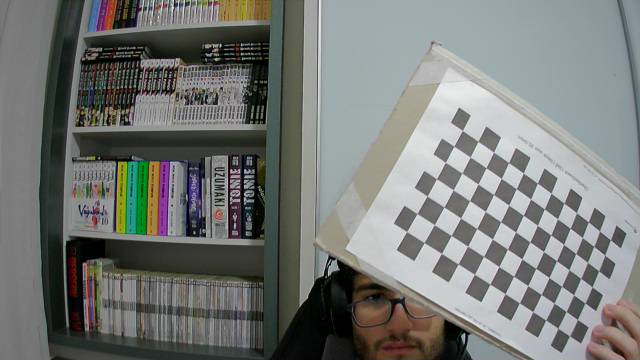
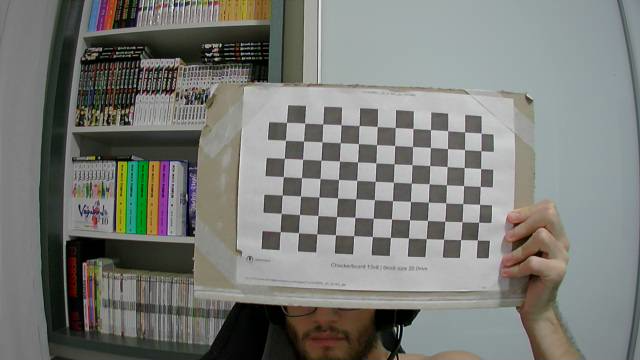
Noite terminada
Funcionando

diff --git a/Interface.py b/Interface.py
@@ -19,6 +19,25 @@ import glob
 import pickle
 from PIL import Image, ImageTk 
 
+
+boolc1 = False
+boolc2 = False
+boolc3 = False
+pular = 0
+vx = 0.0
+vy = 0.0
+infile = open('cameraconfig','rb')
+propriedades = pickle.load(infile)
+#print(propriedades)
+infile.close
+tamanhoTabuleiro = (12,7)
+criteria = (cv2.TERM_CRITERIA_EPS + cv2.TERM_CRITERIA_MAX_ITER, 30, 0.001)
+cam = cv2.VideoCapture(0)
+ret, frameinicial = cam.read()
+boolfoto = False
+boolconfirmo = False
+boolrecuso = False
+
 def boolCamera1():
     global boolc1
     boolc1 = not boolc1
@@ -27,43 +46,40 @@ def boolCamera2():
     global boolc2
     boolc2 = not boolc2
 
-def boolfoto():
+def boolfotoc():
     global boolfoto
     boolfoto = not boolfoto
 
-def boolconfirmo():
+def boolconfirmoc():
     global boolconfirmo
     boolconfirmo = not boolconfirmo
 
-def boolrecuso():
+def boolrecusoc():
     global boolrecuso
     boolrecuso = not boolrecuso
 
-def cali():
-    print("foi")
+def cali(menu2, l1,numero):
     global cam 
     cv2.namedWindow("fotos")
     contador = 0
     global boolfoto
     global boolrecuso
     global boolconfirmo
-    boolfoto = False
-    boolrecuso = False
-    boolconfirmo = False
+
     while True:
+        menu2.update()
         ret, frame = cam.read()
         salvo = frame
         if ret == False:
             print("problema na camera")
             break
         cv2.imshow("fotos", frame)
-        tamanho = (frame.shape[0],frame.shape[1])
-        k = cv2.waitKey(1)
-        if k%256 == 27:
-            # ESC pressed
-            break
         print(boolfoto)
-        menu.update()
+        tamanho = (frame.shape[0],frame.shape[1])
+        #k = cv2.waitKey(1)
+        #if k%256 == 27:
+            # ESC pressed
+            #break
         if boolfoto  == True:
             # SPACE pressed
             NomeImagem = "calibra{}.png".format(contador)
@@ -80,7 +96,7 @@ def cali():
                 imagem = Image.fromarray(imagem)
                 tkimage = ImageTk.PhotoImage(imagem)
                 l1.config(image=tkimage)
-                menu.update()
+                menu2.update()
                 while(True):
                     if boolconfirmo == True:
                         print("{} salvo!".format(NomeImagem))
@@ -92,8 +108,8 @@ def cali():
                         os.remove(NomeImagem)
                         boolrecuso = False
                         break
-                    boolfoto = 0 
-                    menu.update()
+                    boolfoto = False
+                    menu2.update()
         if boolconfirmo == True:
             break
     cv2.destroyWindow('fotos')
@@ -119,52 +135,130 @@ def cali():
     outfile.close
     return propriedades
     
-def creattreco(frame):
+def creattreco():
+    global frameinicial
+    global boolfoto
+    global boolconfirmo
+    global boolrecuso
+    frame = frameinicial
     cor1 = '#404040' # cinza de fundo
     cor2 = '#ff7f2a' #
     cor3 = '#757575'
-    menu = Tk()
+    menu2 = Toplevel(menu)
     geometria = "{0}x{1}".format(frame.shape[1]+150,frame.shape[0]+400)
-    menu.geometry(geometria)
-    menu.option_add("*font", "lucida 10 bold italic")
-    menu.title('Menu')
-    menu.config(bg = cor1)
-    menu.iconbitmap('iconrasie.ico')
+    menu2.geometry(geometria)
+    menu2.option_add("*font", "lucida 10 bold italic")
+    menu2.title('c')
+    menu2.config(bg = cor1)
+    menu2.iconbitmap('iconrasie.ico')
     
     
-    botao1 = Button(menu,text='Foto',bg =cor1,fg = cor2,activebackground = cor1,activeforeground = cor2,command=boolfoto)
+    botao1 = Button(menu2,text='Foto',bg =cor1,fg = cor2,activebackground = cor1,activeforeground = cor2,command=boolfotoc)
     botao1.place(x=375,y=10)
 
-    botao2 = Button(menu,text='Confirmar',bg =cor1,fg = cor2,activebackground = cor1,activeforeground = cor2,command=boolconfirmo)
+    botao2 = Button(menu2,text='Confirmar',bg =cor1,fg = cor2,activebackground = cor1,activeforeground = cor2,command=boolconfirmoc)
     botao2.place(x=375,y=50)
 
-    botao3 = Button(menu,text='Apagar',bg =cor1,fg = cor2,activebackground = cor1,activeforeground = cor2,command=boolrecuso)
+    botao3 = Button(menu2,text='Apagar',bg =cor1,fg = cor2,activebackground = cor1,activeforeground = cor2,command=boolrecusoc)
     botao3.place(x=375,y=90)
 
-    numero = Label(bg = cor1,highlightbackground = cor1,activebackground = cor1, fg = cor2,text = "Numero de imagens: 0")
+    numero = Label(menu2,bg = cor1,highlightbackground = cor1,activebackground = cor1, fg = cor2,text = "Numero de imagens: 0")
     numero.place(x=340,y=frame.shape[1]-100)
-    imagem = Image.fromarray(frame)
-    tkimage = ImageTk.PhotoImage(imagem)
-    l1 = Label(menu, image=tkimage)
+    imagem = Image.fromarray(cv2.cvtColor(frame, cv2.COLOR_BGR2RGB))
+    tkimage = ImageTk.PhotoImage(image=imagem, master=menu2)
+    l1 = Label(menu2, image=tkimage)
     l1.place(x = 70, y = 150)
-    return menu, l1,numero
+    menu2.update()
+    
+    cv2.namedWindow("fotos")
+    contador = 0
+
+    while True:
+        menu2.update()
+        ret, frame = cam.read()
+        salvo = frame
+        if ret == False:
+            print("problema na camera")
+            break
+        cv2.imshow("fotos", frame)
+        #print(boolfoto)
+        tamanho = (frame.shape[0],frame.shape[1])
+        #k = cv2.waitKey(1)
+        #if k%256 == 27:
+            # ESC pressed
+            #break
+        if boolfoto  == True:
+            # SPACE pressed
+            NomeImagem = "calibra{}.png".format(contador)
+            gray = cv2.cvtColor(frame, cv2.COLOR_BGR2GRAY)
+            ret, vertice = cv2.findChessboardCorners(gray, tamanhoTabuleiro, None) # Find the chess board corners
+            if ret==0:
+                print('erro no tabuleiro')
+                boolfoto = False
+            else:
+                verticeNovo = cv2.cornerSubPix(gray, vertice, (11,11), (-1,-1), criteria)
+                desenhos = frame
+                cv2.imwrite(NomeImagem, salvo)
+                cv2.drawChessboardCorners(desenhos, tamanhoTabuleiro, verticeNovo, ret) # Draw corners
+                imagem = cv2.cvtColor(desenhos, cv2.COLOR_BGR2RGB) 
+                imagem = Image.fromarray(imagem)
+                tkimage = ImageTk.PhotoImage(imagem, master= menu2)
+                l1.config(image=tkimage)
+                menu2.update()
+                while(True):
+                    if boolconfirmo == True:
+                        print("{} salvo!".format(NomeImagem))
+                        contador += 1
+                        boolconfirmo = False
+                        numero.config(text="Numero de imagens: {0}".format(contador))
+                        break
+                    if boolrecuso == True:
+                        os.remove(NomeImagem)
+                        boolrecuso = False
+                        break
+                    boolfoto = False
+                    menu2.update()
+        if boolconfirmo == True:
+            break
+    cv2.destroyWindow('fotos')
+    menu2.destroy()
+    objp = np.zeros((tamanhoTabuleiro[0] * tamanhoTabuleiro[1], 3), np.float32)
+    objp[:,:2] = np.mgrid[0:tamanhoTabuleiro[0],0:tamanhoTabuleiro[1]].T.reshape(-1,2)
+    objetoReal = [] #points in real world space
+    objetoImagem = [] #points in image plane.
+    imagens = glob.glob('*.png')
+    for imagem in imagens:
+        img = cv2.imread(imagem)
+        gray = cv2.cvtColor(img, cv2.COLOR_BGR2GRAY)
+
+        ret, vertice = cv2.findChessboardCorners(gray, tamanhoTabuleiro, None) # Find the chess board corners
+
+        if ret == True:
+            objetoReal.append(objp)
+            verticeNovo = cv2.cornerSubPix(gray, vertice, (11,11), (-1,-1), criteria)
+            objetoImagem.append(vertice)
+    ret, cameraMatrix, dist, rvecs, tvecs = cv2.calibrateCamera(objetoReal, objetoImagem, tamanho, None, None)
+    propriedades = [ret, cameraMatrix, dist, rvecs, tvecs]
+    outfile = open('cameraconfig','wb')
+    pickle.dump(propriedades,outfile)
+    outfile.close
+
+    return menu2, l1,numero
 
         
 def boolCamera3():
-    global boolCamera3
-    boolCamera3 = not boolCamera3
-    #global prop
-    #zxc.takePictures()
-    #propriedades = zxc.calibrateCam()
+    global boolc3
+    boolc3 = not boolc3
 
 def creatMenu():
 
     global boolC1
+    global boolfoto
     cor1 = '#404040' # cinza de fundo
     cor2 = '#ff7f2a' #
     cor3 = '#757575'
     
-    menu = Tk()
+    menu = Tk("menu")
     menu.option_add("*font", "lucida 10 bold italic")
     menu.title('Menu')
     menu.geometry('860x440')
@@ -252,7 +346,7 @@ def creatMenu():
     botao2 = Button(moldura3,text='Mascara',bg =cor1,fg = cor2,activebackground = cor1,activeforeground = cor2,command = boolCamera2)
     botao2.place(x=90,y=10)
 
-    botao3 = Button(moldura3,text='Calibragem',bg =cor1,fg = cor2,activebackground = cor1,activeforeground = cor2,command = boolCamera3)
+    botao3 = Button(moldura3,text='Calibragem',bg =cor1,fg = cor2,activebackground = cor1,activeforeground = cor2,command = creattreco)
     botao3.place(x=175,y=10)
     
 
@@ -275,34 +369,12 @@ def creatMenu():
 
     return menu,hue,saturation,value,dados
 
-boolc1 = False
-boolc2 = False
-boolc3 = False
-pular = 0
-vx = 0.0
-vy = 0.0
-infile = open('cameraconfig','rb')
-propriedades = pickle.load(infile)
-#print(propriedades)
-infile.close
-tamanhoTabuleiro = (12,7)
-criteria = (cv2.TERM_CRITERIA_EPS + cv2.TERM_CRITERIA_MAX_ITER, 30, 0.001)
-cam = cv2.VideoCapture(0)
-ret, frameinicial = cam.read()
-boolfoto = True
-boolconfirmo = True
-boolrecuso = False
+
 
 menu, hue,saturation,value,dados = creatMenu()
-img = cv2.VideoCapture(0)
 while(True):
 
-    ret, frame = img.read()
-    if boolCamera3 == True:
-        menu2,l1,numerofotos = creattreco(frame)
-        print("TEZTE")     
-        #cali()
-        boolCamera3 = False   
+    ret, frame = cam.read() 
     tempo = time.time()
     hsv = cv2.cvtColor(frame, cv2.COLOR_BGR2HSV) 
     

diff --git a/Bibliotecaresumida.py b/Bibliotecaresumida.py
@@ -21,10 +21,12 @@ lastTime = 0
 # with open('datacsv.txt', 'r') as arquivo:
 #     leitor = csv.reader(arquivo)
 #     dados = list(leitor)
-
-infile = open('cameraconfig','rb')
-propriedades = pickle.load(infile)
-infile.close
+try:
+    infile = open('cameraconfig','rb')
+    propriedades = pickle.load(infile)
+    infile.close
+except:
+    pass
 
 def dataAngles(fileName):
     with open(fileName, 'r') as arquivo:
